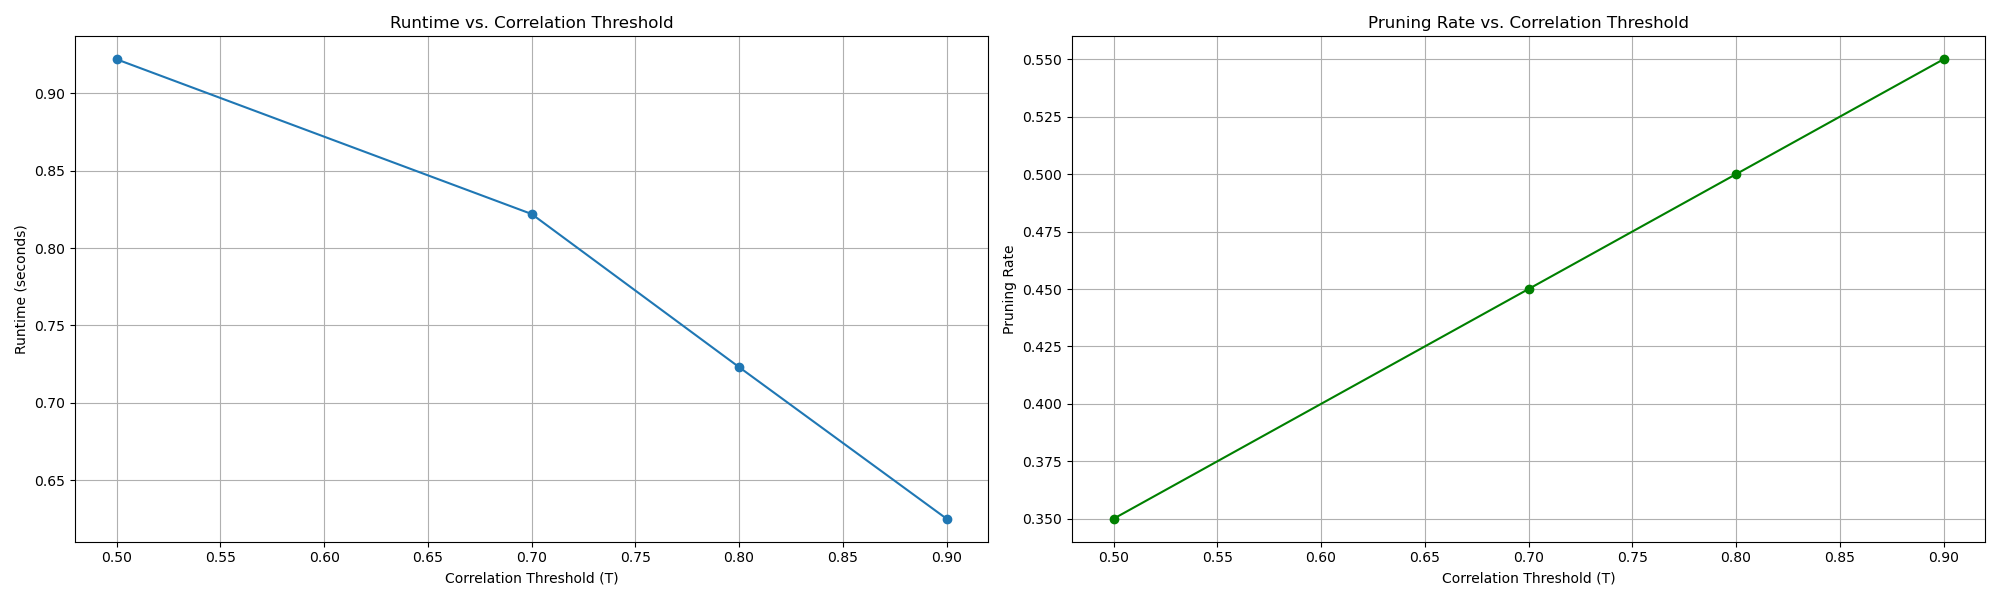
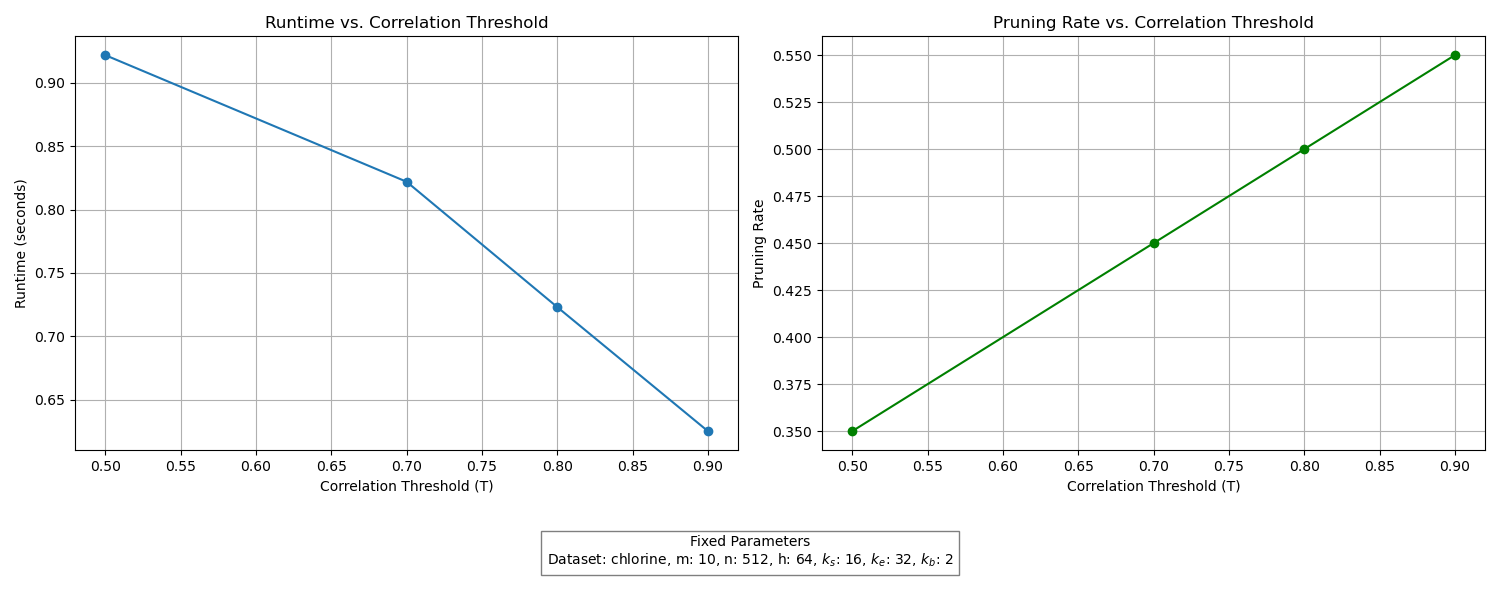
feat: plot description

diff --git a/code/brute_force_implementation/plot.py b/code/brute_force_implementation/plot.py
@@ -32,7 +32,8 @@ def runtime_t_pr_t(df):
   result_df = filtered_df.sort_values('T').groupby('T').last().reset_index()
 
   # Create the figure with two subplots side by side
-  fig, (ax1, ax2) = plt.subplots(1, 2, figsize=(20, 6))
+  fig, (ax1, ax2) = plt.subplots(1, 2, figsize=(15, 6))
+  # fig, (ax1, ax2) = plt.subplots(1, 2)
 
   # Plot 1: Runtime vs. Correlation Threshold
   ax1.plot(result_df['T'], result_df['runtime'], marker='o')
@@ -48,8 +49,24 @@ def runtime_t_pr_t(df):
   ax2.set_title('Pruning Rate vs. Correlation Threshold')
   ax2.grid(True)
 
+  # Add description of fixed parameters
+  # I need double curly braces because otherwise the f-string things it's a
+  # variable
+  fixed_params = (
+      f"Fixed Parameters\n"
+      f"Dataset: chlorine, "
+      f"m: 10, "
+      f"n: 512, "
+      f"h: 64, "
+      f"$k_{{s}}$: 16, "
+      f"$k_{{e}}$: 32, "
+      f"$k_{{b}}$: 2"
+  )
+  fig.text(0.5, 0.08, fixed_params, ha='center', va='center', fontsize=10, bbox=dict(facecolor='white', alpha=0.5))
+
   # Adjust layout and save the figure
   plt.tight_layout()
+  plt.subplots_adjust(bottom=0.25)  # Make room for the description
   plt.savefig('./code/brute_force_implementation/plots/runtime_t_pr_t.png')
   plt.close()
 
